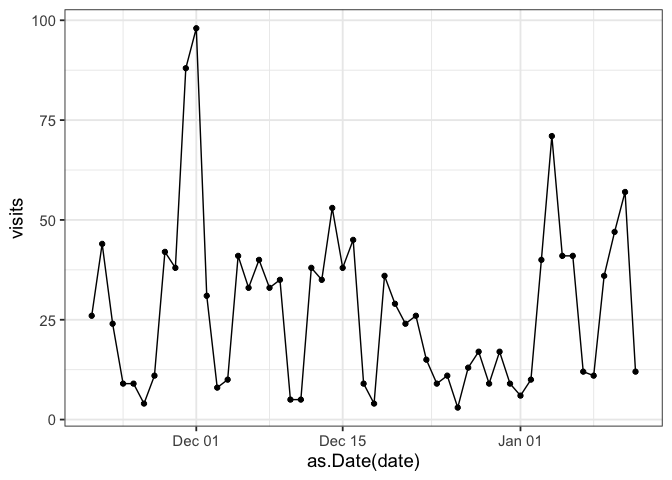
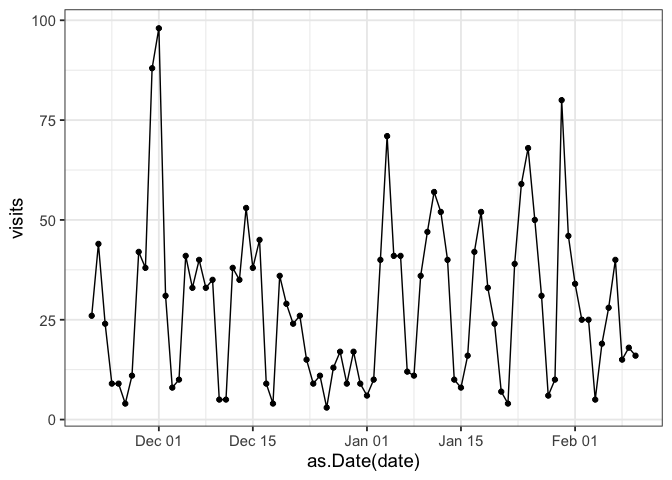
update data and viz for February

diff --git a/README.md b/README.md
@@ -23,9 +23,9 @@ This repository contains code and data on metrics for the OSF project,
 
 ## Stats
 
-This README last generated on **2023-01-12**.
+This README last generated on **2023-02-10**.
 
-Most recent data gathered on **2023-01-12**.
+Most recent data gathered on **2023-02-10**.
 
 ### Downloads
 
@@ -40,16 +40,17 @@ downloads_file %>%
 
 | file                                                            | downloads |
 |:----------------------------------------------------------------|----------:|
-| Data Management and Sharing Plan Checklist for Researchers.docx |       109 |
-| 2022-10-26_ExampleDMSP_annotated.pdf                            |        70 |
-| Policy Readiness Checklist for Librarians.docx                  |        38 |
-| Data Terms related to the NIH DMS Plan and Policy.docx          |        27 |
-| Example_DMSP_Metadata.xlsx                                      |        12 |
-| Grant Glossary for Librarians.docx                              |        12 |
-| Grant Speak in Context.docx                                     |        11 |
+| Data Management and Sharing Plan Checklist for Researchers.docx |       165 |
+| 2022-10-26_ExampleDMSP_annotated.pdf                            |       130 |
+| Policy Readiness Checklist for Librarians.docx                  |        44 |
+| Data Terms related to the NIH DMS Plan and Policy.docx          |        32 |
+| Extended Reference for DMSP Checklist.docx                      |        14 |
+| Example_DMSP_Metadata.xlsx                                      |        13 |
+| Grant Glossary for Librarians.docx                              |        13 |
+| Grant Speak in Context.docx                                     |        13 |
 | license.txt                                                     |         3 |
-| Working Group on NIH DMSP Guidance - template.docx              |         2 |
-| Working Group on NIH DMSP Guidance - Style Guide.docx           |         2 |
+| Working Group on NIH DMSP Guidance - template.docx              |         3 |
+| Working Group on NIH DMSP Guidance - Style Guide.docx           |         3 |
 | README.docx                                                     |         1 |
 | Glossaries_README.docx                                          |         1 |
 
